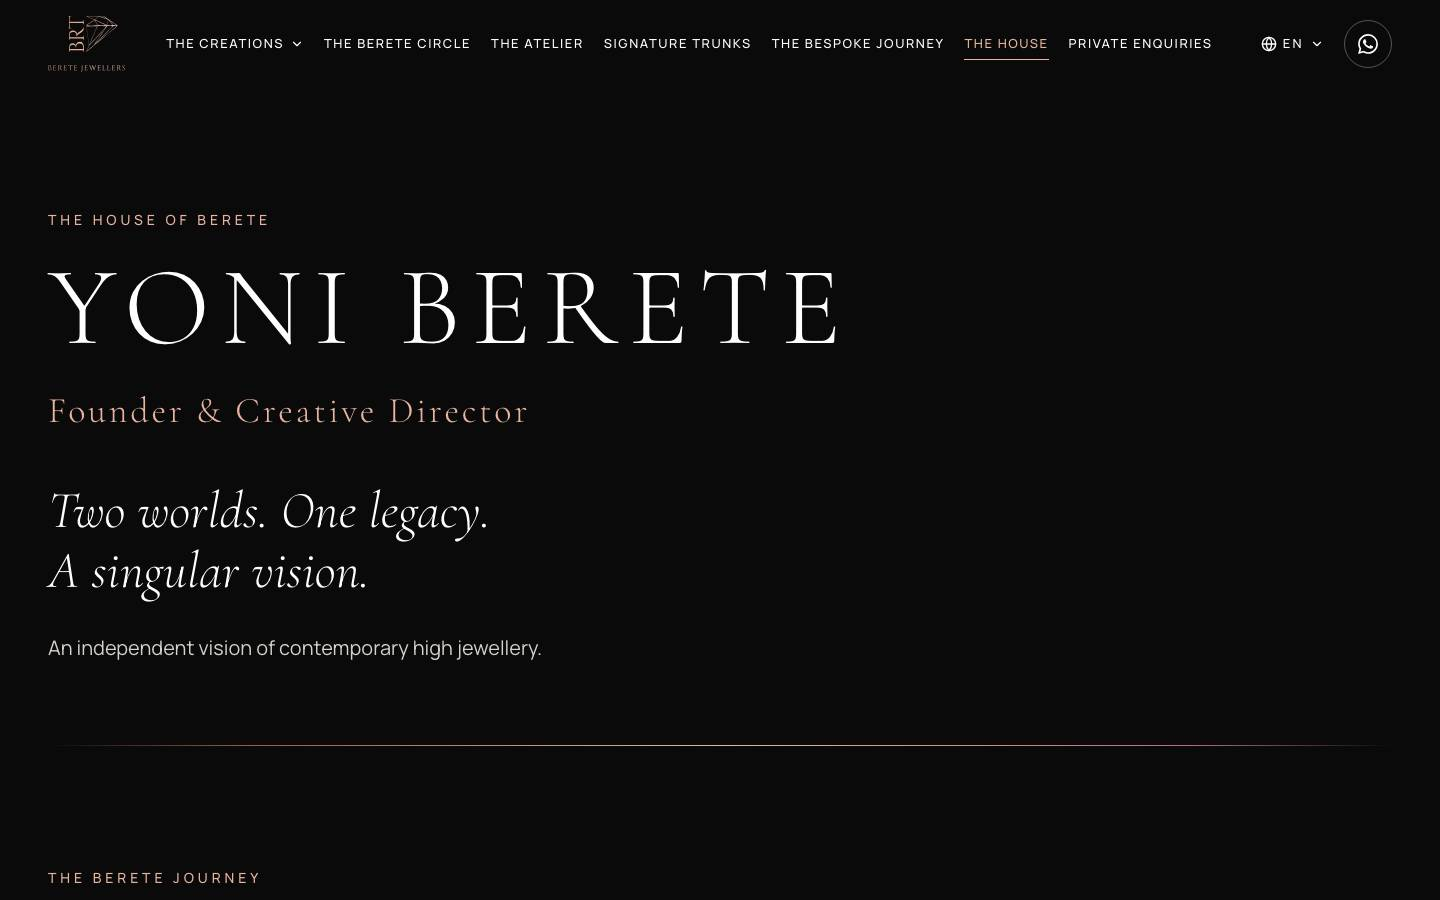
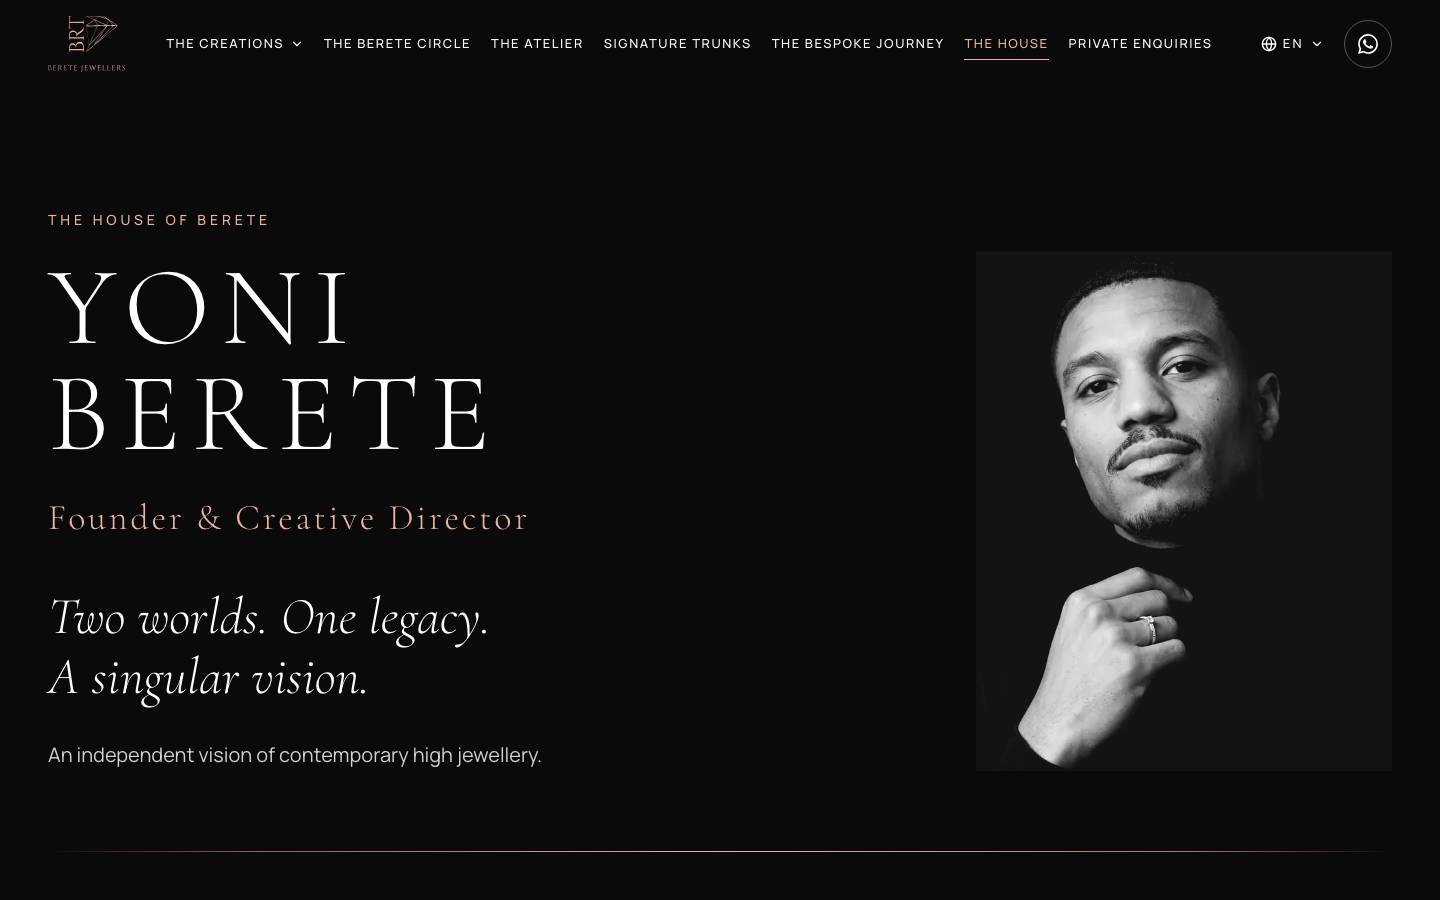
La Maison : le portrait noir et blanc de Yoni en photo principale (cadré sur le visage, ordinateur et iPhone) ; la vitrine ne plante plus quand une vue est exclue dans l'admin

diff --git a/tests/maison.spec.ts b/tests/maison.spec.ts
@@ -1,0 +1,56 @@
+// The House (/about), 22/11/2026: the black and white portrait of Yoni as the main photo of the page, and no other photo
+// (the quotes and the chapters keep theirs: none). His face whole, on a computer and on an iPhone. Silent.
+// Screenshots go to verification/maison/.
+import { mkdirSync } from "node:fs";
+import { expect, test } from "./fixtures";
+import { media } from "../src/data/sources";
+import { skipIntro, watch } from "./helpers";
+
+const DIR = "verification/maison";
+mkdirSync(DIR, { recursive: true });
+
+test("the data: the portrait only", () => {
+  expect(Object.keys(media.house ?? {})).toEqual(["portrait"]);
+  expect(media.house!.portrait!.src).toBe("/media/house/portrait.webp");
+});
+
+for (const lang of ["", "/fr"]) {
+  test("the portrait of Yoni at the top of The House" + (lang ? " (" + lang.slice(1) + ")" : ""), async ({ page }, info) => {
+    const problems = watch(page);
+    await skipIntro(page);
+    await page.goto(lang + "/about", { waitUntil: "load" });
+    const photos = page.locator("[data-house-photo]");
+    await expect(photos).toHaveCount(1);
+    await expect(page.locator("[data-house-chapter] [data-house-photo], [data-house-quote] [data-house-photo]")).toHaveCount(0);
+    const img = photos.locator("img");
+    await img.scrollIntoViewIfNeeded();
+    await expect.poll(() => img.evaluate((e) => new URL((e as HTMLImageElement).currentSrc).pathname), { timeout: 15_000 }).toMatch(/^\/media\/house\/portrait(\.w\d+)?\.webp$/);
+    await expect.poll(() => img.evaluate((e) => (e as HTMLImageElement).naturalWidth), { timeout: 15_000 }).toBeGreaterThan(0);
+    await page.waitForTimeout(1600);
+    // Framed from its top: the 4:5 frame only trims the bottom of the photo (the sweater), never the head.
+    const fit = await img.evaluate((e) => {
+      const el = e as HTMLImageElement;
+      const box = el.getBoundingClientRect();
+      const s = getComputedStyle(el);
+      return { position: s.objectPosition, fit: s.objectFit, w: box.width, h: box.height, left: box.left, right: box.right, vw: innerWidth, drawnH: (box.width * el.naturalHeight) / el.naturalWidth };
+    });
+    expect(fit.fit).toBe("cover");
+    expect(fit.position).toBe("50% 0%");
+    expect(fit.drawnH).toBeGreaterThanOrEqual(fit.h - 1);
+    // The face (the top half of the photo) stays inside the frame: at most 7 % of the photo is trimmed, all at the bottom.
+    expect(fit.h / fit.drawnH).toBeGreaterThan(0.9);
+    // Whole on the screen, at a good size.
+    expect(fit.left).toBeGreaterThanOrEqual(0);
+    expect(fit.right).toBeLessThanOrEqual(fit.vw);
+    expect(fit.w).toBeGreaterThan(info.project.name === "desktop" ? 380 : 300);
+    await img.evaluate((e) => e.scrollIntoView({ block: "center" }));
+    await page.waitForTimeout(800);
+    await page.screenshot({ path: DIR + "/" + info.project.name + (lang ? "-fr" : "") + "-portrait.jpg", type: "jpeg", quality: 72 });
+    if (!lang) {
+      await page.evaluate(() => scrollTo(0, 0));
+      await page.waitForTimeout(800);
+      await page.screenshot({ path: DIR + "/" + info.project.name + "-haut-de-page.jpg", type: "jpeg", quality: 72 });
+    }
+    expect(problems.errors).toEqual([]);
+  });
+}

diff --git a/src/pages/About.tsx b/src/pages/About.tsx
@@ -11,13 +11,16 @@ import { useCatalogue } from "@/lib/catalogue";
 import { waLink } from "@/lib/site";
 import { useWhatsAppMessage } from "@/lib/whatsapp";
 
-/** A personal photo of Yoni, only when there is one (never an empty frame). */
-function HousePhoto({ photo, alt, className = "" }: { photo: MediaItem | null; alt: string; className?: string }) {
+/**
+ * A personal photo of Yoni, only when there is one (never an empty frame). `top`: framed from its top, so that a portrait
+ * keeps the whole head (the 4:5 frame only trims the bottom). `eager`: the photo of the top of the page, loaded at once.
+ */
+function HousePhoto({ photo, alt, className = "", top = false, eager = false }: { photo: MediaItem | null; alt: string; className?: string; top?: boolean; eager?: boolean }) {
   if (!photo) return null;
   return (
     <Reveal mask className={className}>
       <figure data-house-photo className="overflow-hidden bg-ink-soft">
-        <MediaView item={photo} alt={photo.alt ?? alt} fit="cover" sizes="(max-width: 1023px) 100vw, 40vw" className="aspect-[4/5]" />
+        <MediaView item={photo} alt={photo.alt ?? alt} fit="cover" eager={eager} sizes="(max-width: 1023px) 100vw, 40vw" className={"aspect-[4/5]" + (top ? " object-top" : "")} />
       </figure>
     </Reveal>
   );
@@ -53,7 +56,7 @@ export default function About() {
               <p className="mt-8 max-w-2xl text-lg leading-relaxed text-mist lg:text-xl">{t.about.lead}</p>
             </Reveal>
           </div>
-          <HousePhoto photo={portrait} alt={t.about.founderPortrait} className="lg:col-span-4 lg:col-start-9" />
+          <HousePhoto photo={portrait} alt={t.about.founderPortrait} top eager className="lg:col-span-4 lg:col-start-9" />
         </div>
         <div className="mx-auto max-w-[1600px] px-5 sm:px-8 lg:px-12">
           <div className="rule-rose mt-14 origin-left animate-draw rtl:origin-right lg:mt-20" aria-hidden="true" />

diff --git a/src/components/Showcase.tsx b/src/components/Showcase.tsx
@@ -46,11 +46,14 @@ export default function Showcase({ slug, title, views, jewel = null, large = fal
   // A new piece (or other views from the admin): the main view in the middle again.
   const key = slug + views.map((v) => v.id).join(",");
   const [shown, setShown] = useState(key);
-  if (shown !== key) {
+  const renewed = shown !== key;
+  if (renewed) {
     setShown(key);
     setOrder(views.map((_, i) => i));
     setSlide(0);
   }
+  // This render already uses the new order: the old one may point at a view that is gone (a view excluded in the admin).
+  const places = renewed ? views.map((_, i) => i) : order;
 
   // The relief: the views follow the mouse a little (computers only, never with reduced motion).
   useEffect(() => {
@@ -137,7 +140,7 @@ export default function Showcase({ slug, title, views, jewel = null, large = fal
     <div ref={rootRef} data-showcase={multi ? "multi" : "single"} data-showcase-large={large ? "" : undefined} className="relative h-full w-full">
       {/* Computer: the views in depth */}
       <div className="absolute inset-0 hidden lg:block" role={multi ? "group" : undefined} aria-label={multi ? t.piece.viewsLabel : undefined}>
-        {order.map((viewIndex, place) => {
+        {places.map((viewIndex, place) => {
           const v = views[viewIndex]!;
           const spot = !multi ? (large ? SINGLE_LARGE : SINGLE) : place === 0 ? (large ? MAIN_LARGE : MAIN) : AROUND[(place - 1) % AROUND.length]!;
           const main = place === 0;

diff --git a/tests/identity.spec.ts b/tests/identity.spec.ts
@@ -163,8 +163,9 @@ test("The House: Yoni Berete's story in chapters, his three quotes, the signatur
     await expect(quotes.nth(i)).toContainText(label);
     await expect(quotes.nth(i)).toContainText("Yoni Berete");
   }
-  // No photo of Yoni yet: no frame at all.
-  await expect(page.locator("[data-house-photo]")).toHaveCount(0);
+  // His portrait only (22/11/2026): no photo, so no frame, in the chapters and the quotes.
+  await expect(page.locator("[data-house-photo]")).toHaveCount(1);
+  await expect(page.locator("[data-house-chapter] [data-house-photo], [data-house-quote] [data-house-photo]")).toHaveCount(0);
   await quotes.nth(0).scrollIntoViewIfNeeded();
   await page.waitForTimeout(1000);
   await page.screenshot({ path: shotPath(info, "house-2-citation"), type: "jpeg", quality: 70 });

diff --git a/CLAUDE.md b/CLAUDE.md
@@ -162,6 +162,18 @@ Ce fichier garde tout le contexte du projet, pour Claude Code et pour Claude (ch
       vidéos du produit fini des pièces qui n'en ont pas ; la vidéo de The Hand montre un personnage d'anime gravé sur
       l'écrin (droits, comme Dragon Ball).
 
+## Passe « portrait de Yoni sur La Maison » — état au 22/11/2026
+- [x] **Le portrait noir et blanc** de Yoni (`Berete - La Maison/Portraits IA (propositions)/yoni-noir-blanc.jpg`, copié en
+      `Berete - La Maison/portrait.jpg`, `npm run import-media -- --only=house`) est la photo principale de La Maison
+      (`public/media/house/portrait.webp`) : cadré depuis le haut (le cadre 4:5 ne retire que le bas du pull, jamais la
+      tête), chargé tout de suite. Aucune autre photo de ce dossier sur le site (ni yoni-showroom, ni yoni-etabli, ni
+      yoni-portrait-atelier, jamais mises en ligne). Citations et chapitres : toujours sans photo (aucun cadre vide).
+- [x] Corrigé au passage : la vitrine d'une pièce plantait quand une de ses vues est exclue dans l'admin (seulement avec le
+      serveur, jamais sur Vercel) : `places` de `src/components/Showcase.tsx`.
+- `tests/maison.spec.ts` (ordinateur et iPhone, anglais et français : visage entier, rien coupé), captures dans
+  `verification/maison/`.
+- [ ] Yoni : valider ce portrait (image IA) ; ses vraies photos personnelles pour les citations et les chapitres.
+
 ## Passe « réponses aux doutes du Making of » (Yoni, 21/11/2026) — état au 21/11/2026
 - [x] **Nouvelles étapes** (`MAKING_STEPS` de `src/data/types.ts`, titres et textes en 6 langues dans `src/i18n/ui/*.ts`) :
       « Préparation du sertissage » (`preparation`), « Les pièces avant assemblage » (`parts`), « Assemblage » (`assembly`),
@@ -499,7 +511,8 @@ Ce fichier garde tout le contexte du projet, pour Claude Code et pour Claude (ch
 - [x] Photos des pièces : **haute résolution et fond noir en premier** pour les 15 pièces dont Yoni a envoyé les photos.
 - [ ] WhatsApp : vrai numéro (encore 971XXXXXXXXX) ; message pré-rempli selon la page et la pièce (21/11, voir plus haut) ; Bracelet et
       Montre ajoutés au configurateur de contact (fait).
-- [x] La Maison : biographie (fait). [ ] Photos personnelles de Yoni (il les envoie).
+- [x] La Maison : biographie (fait), portrait noir et blanc en haut de la page (22/11). [ ] Photos personnelles de Yoni pour
+      les citations et les chapitres (il les envoie).
 - [ ] Étapes « croquis → 3D » de chaque pièce (Yoni envoie ses étapes).
 - [ ] Vidéos IA à refaire par Malik : mécanisme bague → pendentif (plus clair), explication de la bague Inter en voix
       off grave, en anglais, sans longue intro.
@@ -507,7 +520,7 @@ Ce fichier garde tout le contexte du projet, pour Claude Code et pour Claude (ch
       de domaine de Yoni (chez one.com).
 
 ## Attendu de Yoni (bloque le lancement)
-Photos personnelles pour La Maison, autres noms des pièces publiées le 20/11 s'il en veut (et leurs
+Photos personnelles pour La Maison (citations, chapitres ; le portrait est en ligne depuis le 22/11), autres noms des pièces publiées le 20/11 s'il en veut (et leurs
 destinataires), photos des étapes de
 fabrication, 2-3 fichiers 3D (.3dm de préférence), vrai numéro WhatsApp, email, accord sur les visuels Dragon Ball.
 

diff --git a/README.md b/README.md
@@ -289,6 +289,7 @@ npm run verify:3d       # visualiseur 3D avec le GPU : verification/3d/rapport.m
                         # tests/yoni2111.spec.ts : Dragon Ball en grand et son film, le Cercle (clic = la pièce),
                         # Sirius (écrin, nuit japonaise), écrin NZ retiré, accueil plus petit, menu dès 1 260 px
                         # tests/doutes.spec.ts : réponses de Yoni aux doutes du Making of (8 pièces, étapes validées)
+                        # tests/maison.spec.ts : le portrait de Yoni en haut de La Maison (visage entier, ordinateur et iPhone)
 ```
 
 ## Vitesse (Lighthouse)
